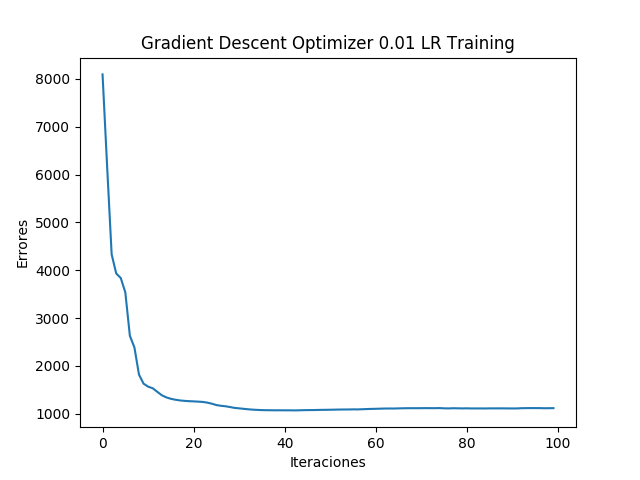
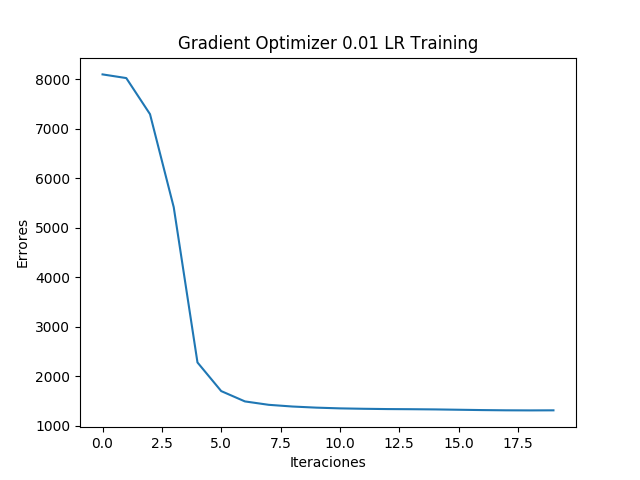
Add files via upload
V1.1:
-Changes in MNIST, using a while loop for the training batch instead of a for
-Different graph results based on the new loop

diff --git a/nn_mnist.py b/nn_mnist.py
@@ -54,8 +54,8 @@ y = tf.nn.softmax(tf.matmul(h, W2) + b2)
 loss = tf.reduce_sum(tf.square(y_ - y))
 #cross_entropy = tf.reduce_mean(tf.nn.softmax_cross_entropy_with_logits(labels=y_, logits=y))
 
-#train = tf.train.RMSPropOptimizer(0.001).minimize(loss)
-train = tf.train.GradientDescentOptimizer(0.01).minimize(loss)
+train = tf.train.RMSPropOptimizer(0.001).minimize(loss)
+#train = tf.train.GradientDescentOptimizer(0.01).minimize(loss)
 #train = tf.train.GradientDescentOptimizer(0.5).minimize(cross_entropy)
 
 #Inicio de la sesion de TensorFlow
@@ -72,18 +72,22 @@ print "---------------------"
 
 batch_size = 100
 plotError = []
+errorA = 15000
+errorB = 15000
+epoch = 0
 
-for epoch in xrange(100):
+while errorA <= errorB:
     for jj in xrange(len(train_x) / batch_size):
        batch_xs = train_x[jj * batch_size: jj * batch_size + batch_size]
        batch_ys = train_y[jj * batch_size: jj * batch_size + batch_size]
        sess.run(train, feed_dict={x: batch_xs, y_:batch_ys})
-
+    epoch += 1
     #Cambiamos la comparativa del error segun el optimizador elegido
-    error = sess.run(loss, feed_dict={x: valid_x, y_:valid_y})
-    #error = sess.run(cross_entropy, feed_dict={x: valid_x, y_: valid_y})
-    plotError.append(error)
-    print "Epoch #: ", epoch, " Error: ", error
+    errorB = errorA
+    errorA = sess.run(loss, feed_dict={x: valid_x, y_:valid_y})
+    #errorA = sess.run(cross_entropy, feed_dict={x: valid_x, y_: valid_y})
+    plotError.append(errorA)
+    print "Epoch #: ", epoch, " Error: ", errorA
     print "-------------------------------------------------------------"
 
 #Prueba con datos nuevos
@@ -102,7 +106,7 @@ print "-------------------------------------------------------------"
 
 plt.ylabel('Errores')
 plt.xlabel('Iteraciones')
-plt.title('Gradient Optimizer 0.01 LR Training')
+plt.title('RMS Prop Optimizer 0.001 Training')
 xLine = plt.plot(plotError)
 plt.legend(handle=[xLine])
 plt.show()
